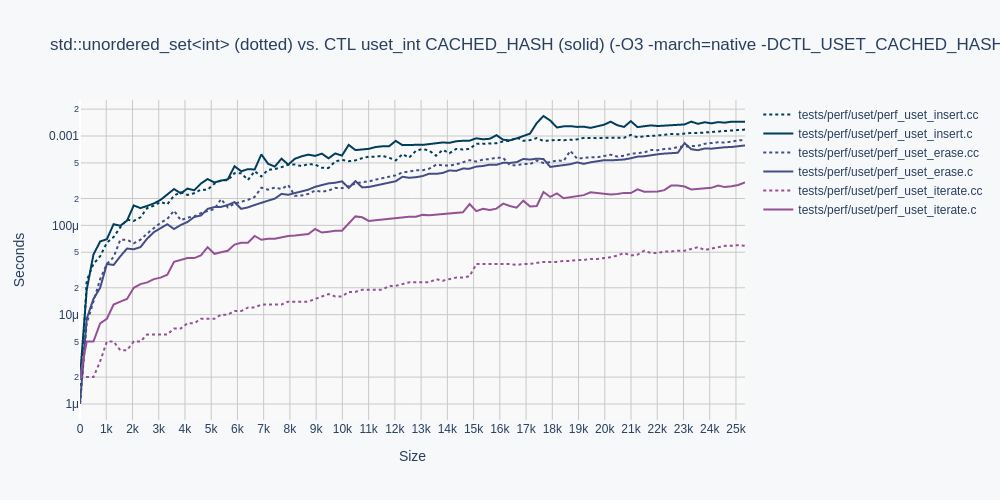
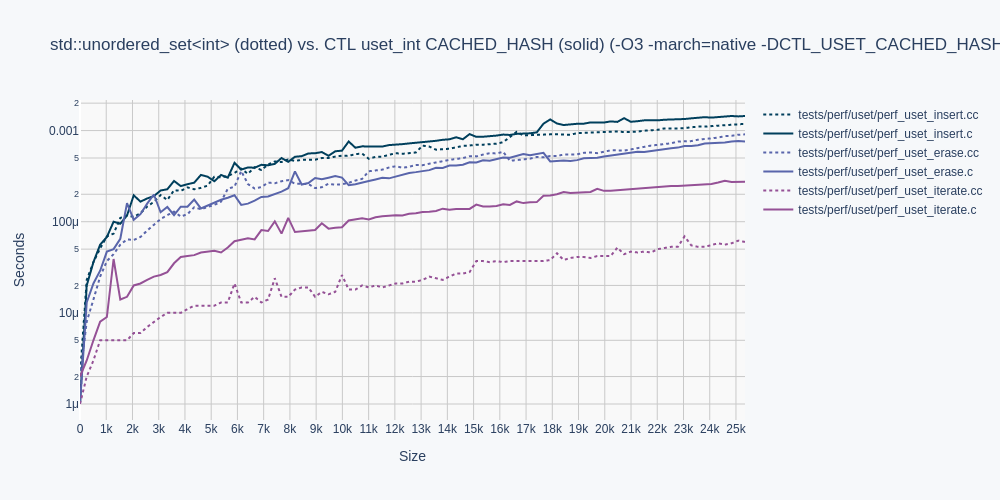
optional PNG=deq ./gen_images.sh
to test single perf graph only.
remove 2 unneeded deq and list curves, max 5, not 6
optimize the 2nd color.

Changed region(s): [[0.062, 0.21, 0.744, 0.78], [0.031, 0.24, 0.093, 0.3]]

diff --git a/tests/perf/perf_plot.py b/tests/perf/perf_plot.py
@@ -33,13 +33,14 @@ def plot_from_data(name_plot_hash, title):
    grid_color = "#C9C9C9"
    plot_bgcolor = "#F9F9F9"
    paper_bgcolor = "#F6F8FA"
+   # lst has 6 items
    color_list = [
-       "#003f5c",
-       "#444e86",
-       "#955196",
-       "#dd5182",
-       "#ff6e54",
-       "#ffa600",
+       "#003f5c", # dark blue
+       "#5965AB", # medium light blue
+       "#955196", # violet
+       "#dd5182", # reddish
+       "#ff6e54", # orange
+       "#ffa600", # yellow-orange
    ]
    used_basenames = []
    trace_list = []
